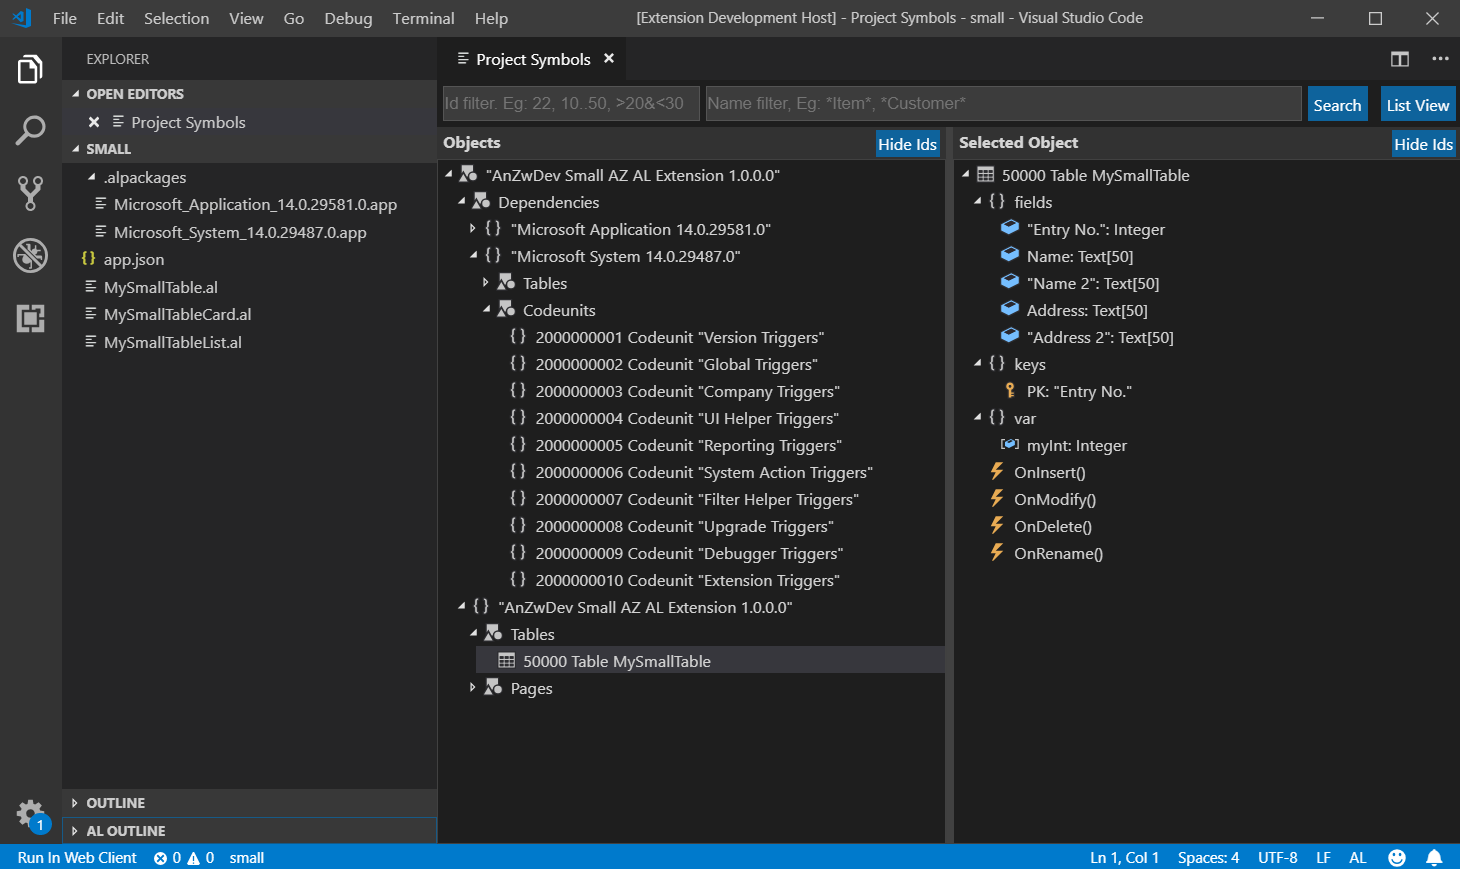
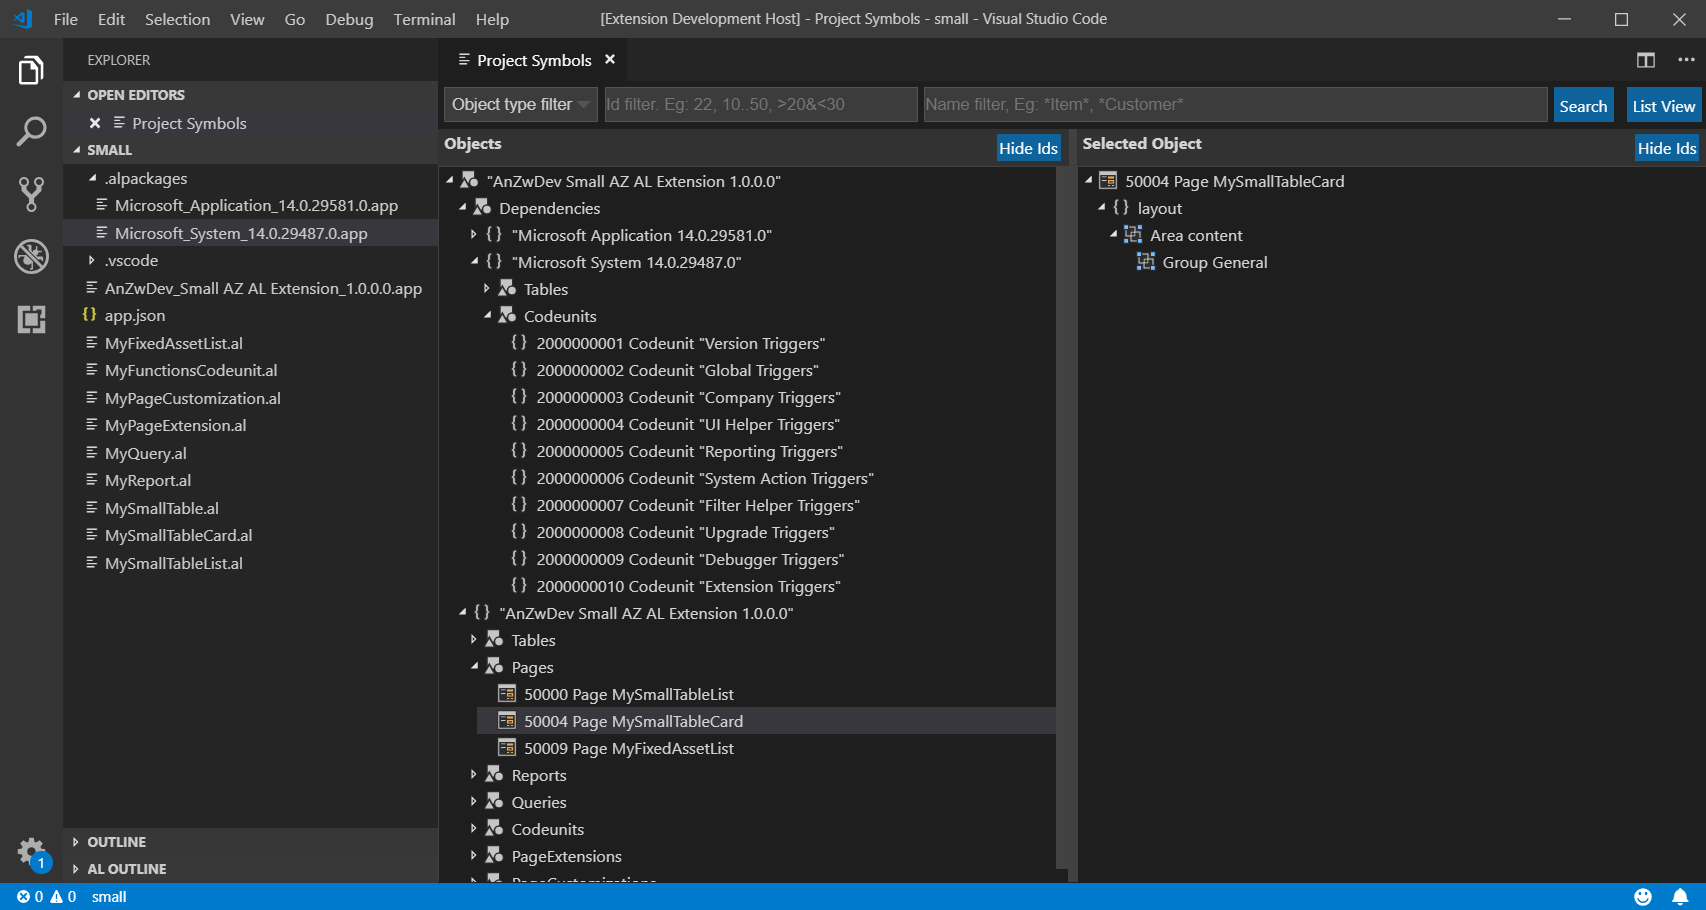
Readme and images update

diff --git a/README.md b/README.md
@@ -26,11 +26,9 @@ Extensions add new "New AL File Wizard" item to EXPLORER context menu. It allows
 
 ### Symbols browser
 
-Symbols browser shows list of AL objects, allows to select one of them and then display details of that symbol. It is also possible to select multiple objects (by clicking on nodes with Ctrl key or using Ctrl+A) and then use context menu to run one of code generator on them. Browser can display symbols in 2 modes - list and tree view. In tree view screen is split into two parts showing objects tree on the left side and selected symbol on the right. In list view browser shows flat list of symbols and uses "AL Outline" panel to show details of selected object.
+Symbols browser shows list of AL objects, allows to select one of them and then display details of that symbol. It is also possible to select multiple objects (by clicking on nodes with Ctrl key or using Ctrl+A) and then use context menu to run one of code generators on them. Browser can display symbols in 2 modes - list and tree view. In tree view screen is split into two parts showing objects tree on the left side and selected symbol on the right. In list view browser shows flat list of symbols and uses "AL Outline" panel to show details of selected object.
 
-Both views allow to filter data, tree view shows filter fields at the top of the screen, list view uses context menu on the header fields to set or clear filters.
-
-Tree view also supports keyboard navigation using arrow keys.
+Both views support keyboard navigation with arrow keys and allow to filter data by using filter fields at the top of the screen.
 
 Symbols browser can display symbols from:
  - *.app symbols file by right clicking on it and using "Open in AL Browser" command from the context menu

diff --git a/CHANGELOG.md b/CHANGELOG.md
@@ -2,6 +2,7 @@
 
 ## 1.0.12
  - The same filters ui for both list and tree views in symbol/object browsers
+ - Better keyboard navigation and row selection in list view of symbols browser
 
 ## 1.0.11
  - Github issue #38 - Finish button on the object wizard not always works for some users - A few changes/fixes to improve wizards UI:
